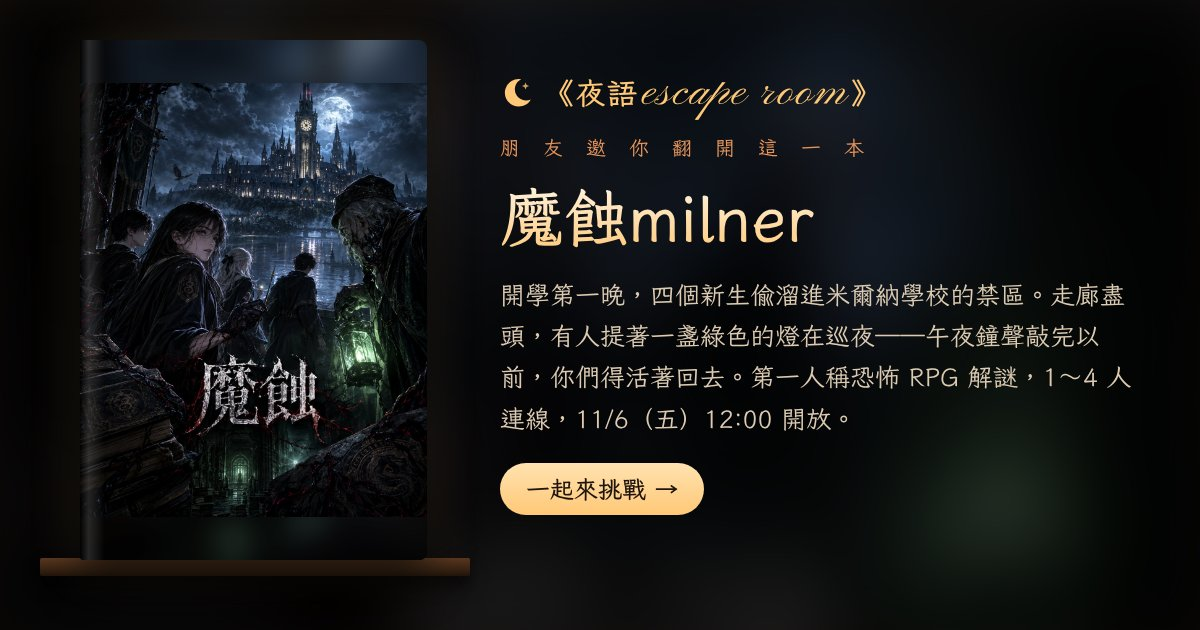
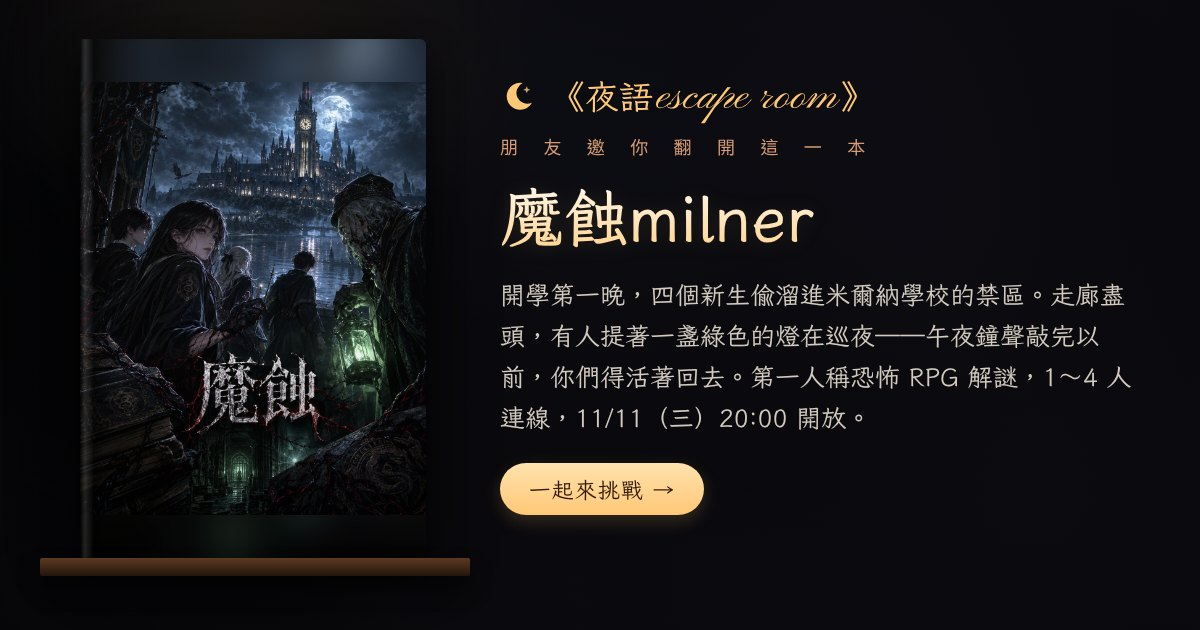
大廳上架《反面》：11/1 00:30 開放；《魔蝕milner》改到 11/11 20:00 開放
- 《反面》（fanmian）：開放時間 OPEN_TIME 00:30、結局數 4、11 個成就（通關、四個結局、全結局、240／150 分鐘、相機沒全壞、零提示、完美），四個結局的成就跟遊戲寫入的 fanmian_<結局> 同一個代號
- 封面、卡片縮圖、分享預覽圖（covers/og/fanmian.jpg，深夜書店風格）、分享頁 g/fanmian/
- 《魔蝕milner》：開放時間改成 20:00（上線日期在資料庫改成 11/11）；分享頁和分享預覽圖的日期改成 11/11（三）20:00，預覽圖換版本號 v=2
- 最新消息：發佈時間在未來的消息先不顯示（可以預先寫好開放當下的消息）

Claude-Session: https://claude.ai/code/session_01AdPrbH4yi1UQn37pXfyhwF

diff --git a/index.html b/index.html
@@ -1997,7 +1997,7 @@ const RETIRED = ['love'];
 const HIDDEN = [];
 const isHidden = (g) => HIDDEN.includes(g.slug);
 // 不是 00:00 開放的遊戲：上線日期那天的幾點幾分（台灣時間）才開放
-const OPEN_TIME = { 'qianshan-night': '20:00', mist: '20:00', heart: '20:00', school3: '20:00', milner: '12:00' };
+const OPEN_TIME = { 'qianshan-night': '20:00', mist: '20:00', heart: '20:00', school3: '20:00', milner: '20:00', fanmian: '00:30' };
 // 改版維修中：大廳照樣顯示，但不能進入
 const MAINT = [];
 const inMaint = (g) => MAINT.includes(g.slug);
@@ -2496,7 +2496,8 @@ function updateChipCounts() {
 // ================= 最新消息 =================
 async function loadNews() {
   const el = $('#news-list');
-  const { data, error } = await supabase.from('news').select('*').order('published_at', { ascending: false }).limit(30);
+  // published_at 在未來的消息先不顯示：可以預先寫好「幾點開放」的消息，時間到了重新整理就看得到
+  const { data, error } = await supabase.from('news').select('*').lte('published_at', new Date().toISOString()).order('published_at', { ascending: false }).limit(30);
   if (error || !data?.length) { el.innerHTML = `<p class="empty">${error ? '讀取消息失敗' : '目前還沒有消息。'}</p>`; return; }
   const SHOW = 6;
   // link：game:<slug> 開啟該密室（跟點密室卡片一樣，會帶登入）、#xxx 捲到大廳區塊、一般網址直接開
@@ -2928,7 +2929,7 @@ function runMeta(r, slug) {
 
 // ================= 成就 =================
 // 有 test 的成就由大廳從遊玩紀錄算出；沒有 test 的成就由遊戲本身寫入 user_achievements。
-const ENDING_COUNT = { 'qianchan-school': 4, school2: 7, school3: 7, love: 7, bang: 11, sea: 2, arg: 8, 'qianshan-night': 12, hotel1: 2 };
+const ENDING_COUNT = { 'qianchan-school': 4, school2: 7, school3: 7, love: 7, bang: 11, sea: 2, arg: 8, 'qianshan-night': 12, hotel1: 2, fanmian: 4 };
 const ACH = [
   { code: 'g_start', game: null, icon: '🚪', title: '初次夜訪', desc: '第一次挑戰任何一間密室', test: c => c.recs.length > 0 },
   { code: 'g_clear', game: null, icon: '🗝', title: '第一次逃脫', desc: '成功逃出任何一間密室', test: c => c.cleared.length > 0 },
@@ -3102,6 +3103,18 @@ const ACH = [
   { code: 'hotel1-nowrong', game: 'hotel1', icon: '🎯', title: '一次就答對', desc: '一次都沒答錯就通關' },
   { code: 'hotel1-six', game: 'hotel1', icon: '🚐', title: '六人滿編', desc: '六位救援隊員到齊，一起通關' },
   { code: 'hotel1-cover', game: 'hotel1', icon: '🔍', title: '眼尖的隊員', desc: '在遊戲封面找齊 6 樣藏起來的東西' },
+  // 反面：全部由遊玩紀錄算（時間含看提示、相機全壞扣掉的時間；deaths＝7 台相機全壞的次數）；四個結局遊戲也會寫入（fanmian_<結局>）
+  { code: 'fm_clear', game: 'fanmian', icon: '🕰', title: '時鐘又動了', desc: '通關反面（任何一個結局）', test: c => c.cl('fanmian').length > 0 },
+  { code: 'fanmian_front', game: 'fanmian', icon: '🖼', title: '正面', ending: 1, desc: '結局：五個人的全家福', test: c => c.end('fanmian', 'front') },
+  { code: 'fanmian_back', game: 'fanmian', icon: '🪞', title: '反面', ending: 1, desc: '結局：有人留在鏡子裡', test: c => c.end('fanmian', 'back') },
+  { code: 'fanmian_shard', game: 'fanmian', icon: '💥', title: '碎片', ending: 1, desc: '結局：碎掉的鏡子，每一片都還照得到人', test: c => c.end('fanmian', 'shard') },
+  { code: 'fanmian_fifth', game: 'fanmian', icon: '👧', title: '第五個人', desc: '隱藏結局：照片裡多了一個小女孩', secret: 1, test: c => c.end('fanmian', 'fifth') },
+  { code: 'fm_all', game: 'fanmian', icon: '📚', title: '一整本相簿', desc: '收集反面的全部 4 個結局', test: c => (c.endings.fanmian?.size ?? 0) >= 4 },
+  { code: 'fm_in240', game: 'fanmian', icon: '⏱', title: '鐵門拉下之前', desc: '240 分鐘內通關（含扣掉的時間）', test: c => c.cl('fanmian').some(r => r.clear_time_sec != null && r.clear_time_sec <= 14400) },
+  { code: 'fm_fast', game: 'fanmian', icon: '⚡', title: '一次曝光', desc: '150 分鐘內通關（含扣掉的時間）', test: c => c.cl('fanmian').some(r => r.clear_time_sec != null && r.clear_time_sec <= 9000) },
+  { code: 'fm_nodeath', game: 'fanmian', icon: '📷', title: '相機都還在', desc: '7 台相機沒有全壞過就通關', test: c => c.cl('fanmian').some(r => !r.deaths) },
+  { code: 'fm_nohint', game: 'fanmian', icon: '🤐', title: '不用看背面', desc: '零提示通關', test: c => c.cl('fanmian').some(r => !r.hints) },
+  { code: 'fm_perfect', game: 'fanmian', icon: '🎞', title: '一張都沒浪費', desc: '零提示、相機沒有全壞過，而且 240 分鐘內通關', test: c => c.cl('fanmian').some(r => !r.hints && !r.deaths && r.clear_time_sec != null && r.clear_time_sec <= 14400) },
 ];
 function achContext() {
   const slugOf = Object.fromEntries(allGames.map(g => [g.id, g.slug]));
@@ -3585,7 +3598,7 @@ setInterval(() => { if (!document.hidden) tickCountdown(); }, 1000);
 const LOBBY_URL = 'https://lobby.noron.workers.dev/';
 // 每款遊戲的分享連結：g/<slug>/ 是有那款封面預覽圖的小頁面（社群貼文會顯示），打開後帶著參數回到大廳
 // from：誰邀請的、t：他的最佳秒數、join：多人遊戲的房號。新遊戲上線時要複製一份 g/<slug>/index.html
-const SHARE_PAGES = ['qianchan-school', 'school2', 'school3', 'pupu', 'bang', 'sea', 'arg', 'qianshan-night', 'hotel1', 'heart', 'milner', 'mist'];
+const SHARE_PAGES = ['qianchan-school', 'school2', 'school3', 'pupu', 'bang', 'sea', 'arg', 'qianshan-night', 'hotel1', 'heart', 'milner', 'fanmian', 'mist'];
 function gameLink(slug, extra = {}) {
   const q = new URLSearchParams(Object.entries(extra).filter(([, v]) => v != null && v !== ''));
   const base = SHARE_PAGES.includes(slug) ? `${LOBBY_URL}g/${slug}/` : LOBBY_URL;

diff --git a/g/fanmian/index.html b/g/fanmian/index.html
@@ -1,0 +1,39 @@
+<!doctype html>
+<html lang="zh-Hant">
+<head>
+<meta charset="utf-8">
+<meta name="viewport" content="width=device-width, initial-scale=1">
+<!-- 《反面》的分享連結：社群預覽圖用 covers/og/<遊戲>.jpg（1200×630，深夜書店風格：完整封面＋標題＋介紹），打開後帶著 from（誰邀請的）、room（房號）、t（他的時間）回到大廳。由大廳的 share 功能產生連結，新遊戲上線時複製一份改內容，也要做一張 covers/og/<遊戲>.jpg。 -->
+<title>反面｜夜語escape room・線上密室逃脫</title>
+<meta name="description" content="三十二年前，明光照相館一家四口人間蒸發。你們半夜來夜探，三樓的閃光燈自己亮了——醒來的時候，有人在鏡子外面，有人在鏡子裡面。鏡子兩邊看到的東西不一樣，1～4 人連線，一起把真相拼回來。">
+<meta property="og:type" content="website">
+<meta property="og:site_name" content="夜語escape room">
+<meta property="og:title" content="反面｜夜語escape room・線上密室逃脫">
+<meta property="og:description" content="三十二年前，明光照相館一家四口人間蒸發。你們半夜來夜探，三樓的閃光燈自己亮了——醒來的時候，有人在鏡子外面，有人在鏡子裡面。鏡子兩邊看到的東西不一樣，1～4 人連線，一起把真相拼回來。">
+<meta property="og:image" content="https://lobby.noron.workers.dev/covers/og/fanmian.jpg?v=1">
+<meta property="og:image:width" content="1200">
+<meta property="og:image:height" content="630">
+<meta name="twitter:image" content="https://lobby.noron.workers.dev/covers/og/fanmian.jpg?v=1">
+<meta property="og:url" content="https://lobby.noron.workers.dev/g/fanmian/">
+<meta name="twitter:card" content="summary_large_image">
+<meta name="robots" content="noindex">
+<style>
+body{margin:0;min-height:100vh;display:grid;place-items:center;text-align:center;font-family:"LXGW WenKai TC","Noto Sans TC","PingFang TC",serif;color:#F5EBDD;
+  background:radial-gradient(ellipse 70% 50% at 50% 0%,rgba(255,200,119,.22),transparent 70%),#140E09}
+main{display:grid;justify-items:center;gap:14px;padding:24px 16px}
+img{width:150px;aspect-ratio:2/3;object-fit:cover;border-radius:3px 6px 6px 3px;box-shadow:0 14px 26px rgba(0,0,0,.6)}
+.shelf{width:200px;height:12px;margin-top:-14px;border-radius:2px;background:linear-gradient(180deg,#5A3820,#3A2414 60%,#22150B)}
+p{margin:6px 0 0;font-size:18px;color:#FFC877}
+a{color:#BBA78C;font-size:14px}
+</style>
+</head>
+<body>
+<main><img src="../../covers/thumb/fanmian.jpg" alt=""><div class="shelf"></div><p>正在翻開《反面》…</p><a id="go" href="../../?g=fanmian">沒有自動跳轉請點這裡</a></main>
+<script>
+  var q = new URLSearchParams(location.search); q.set('g', 'fanmian');
+  var url = '../../?' + q.toString() + location.hash;
+  document.getElementById('go').href = url;
+  location.replace(url);
+</script>
+</body>
+</html>

diff --git a/g/milner/index.html b/g/milner/index.html
@@ -5,15 +5,15 @@
 <meta name="viewport" content="width=device-width, initial-scale=1">
 <!-- 《魔蝕milner》的分享連結：社群預覽圖用 covers/og/<遊戲>.jpg（1200×630，深夜書店風格：完整封面＋標題＋介紹），打開後帶著 from（誰邀請的）、room（房號）、t（他的時間）回到大廳。由大廳的 share 功能產生連結，新遊戲上線時複製一份改內容，也要做一張 covers/og/<遊戲>.jpg。 -->
 <title>魔蝕milner｜夜語escape room・線上密室逃脫</title>
-<meta name="description" content="開學第一晚，四個新生偷溜進米爾納學校的禁區。走廊盡頭，有人提著一盞綠色的燈在巡夜——午夜鐘聲敲完以前，你們得活著回去。第一人稱恐怖 RPG 解謎，1～4 人連線，11/6（五）12:00 開放。">
+<meta name="description" content="開學第一晚，四個新生偷溜進米爾納學校的禁區。走廊盡頭，有人提著一盞綠色的燈在巡夜——午夜鐘聲敲完以前，你們得活著回去。第一人稱恐怖 RPG 解謎，1～4 人連線，11/11（三）20:00 開放。">
 <meta property="og:type" content="website">
 <meta property="og:site_name" content="夜語escape room">
 <meta property="og:title" content="魔蝕milner｜夜語escape room・線上密室逃脫">
-<meta property="og:description" content="開學第一晚，四個新生偷溜進米爾納學校的禁區。走廊盡頭，有人提著一盞綠色的燈在巡夜——午夜鐘聲敲完以前，你們得活著回去。第一人稱恐怖 RPG 解謎，1～4 人連線，11/6（五）12:00 開放。">
-<meta property="og:image" content="https://lobby.noron.workers.dev/covers/og/milner.jpg?v=1">
+<meta property="og:description" content="開學第一晚，四個新生偷溜進米爾納學校的禁區。走廊盡頭，有人提著一盞綠色的燈在巡夜——午夜鐘聲敲完以前，你們得活著回去。第一人稱恐怖 RPG 解謎，1～4 人連線，11/11（三）20:00 開放。">
+<meta property="og:image" content="https://lobby.noron.workers.dev/covers/og/milner.jpg?v=2">
 <meta property="og:image:width" content="1200">
 <meta property="og:image:height" content="630">
-<meta name="twitter:image" content="https://lobby.noron.workers.dev/covers/og/milner.jpg?v=1">
+<meta name="twitter:image" content="https://lobby.noron.workers.dev/covers/og/milner.jpg?v=2">
 <meta property="og:url" content="https://lobby.noron.workers.dev/g/milner/">
 <meta name="twitter:card" content="summary_large_image">
 <meta name="robots" content="noindex">
